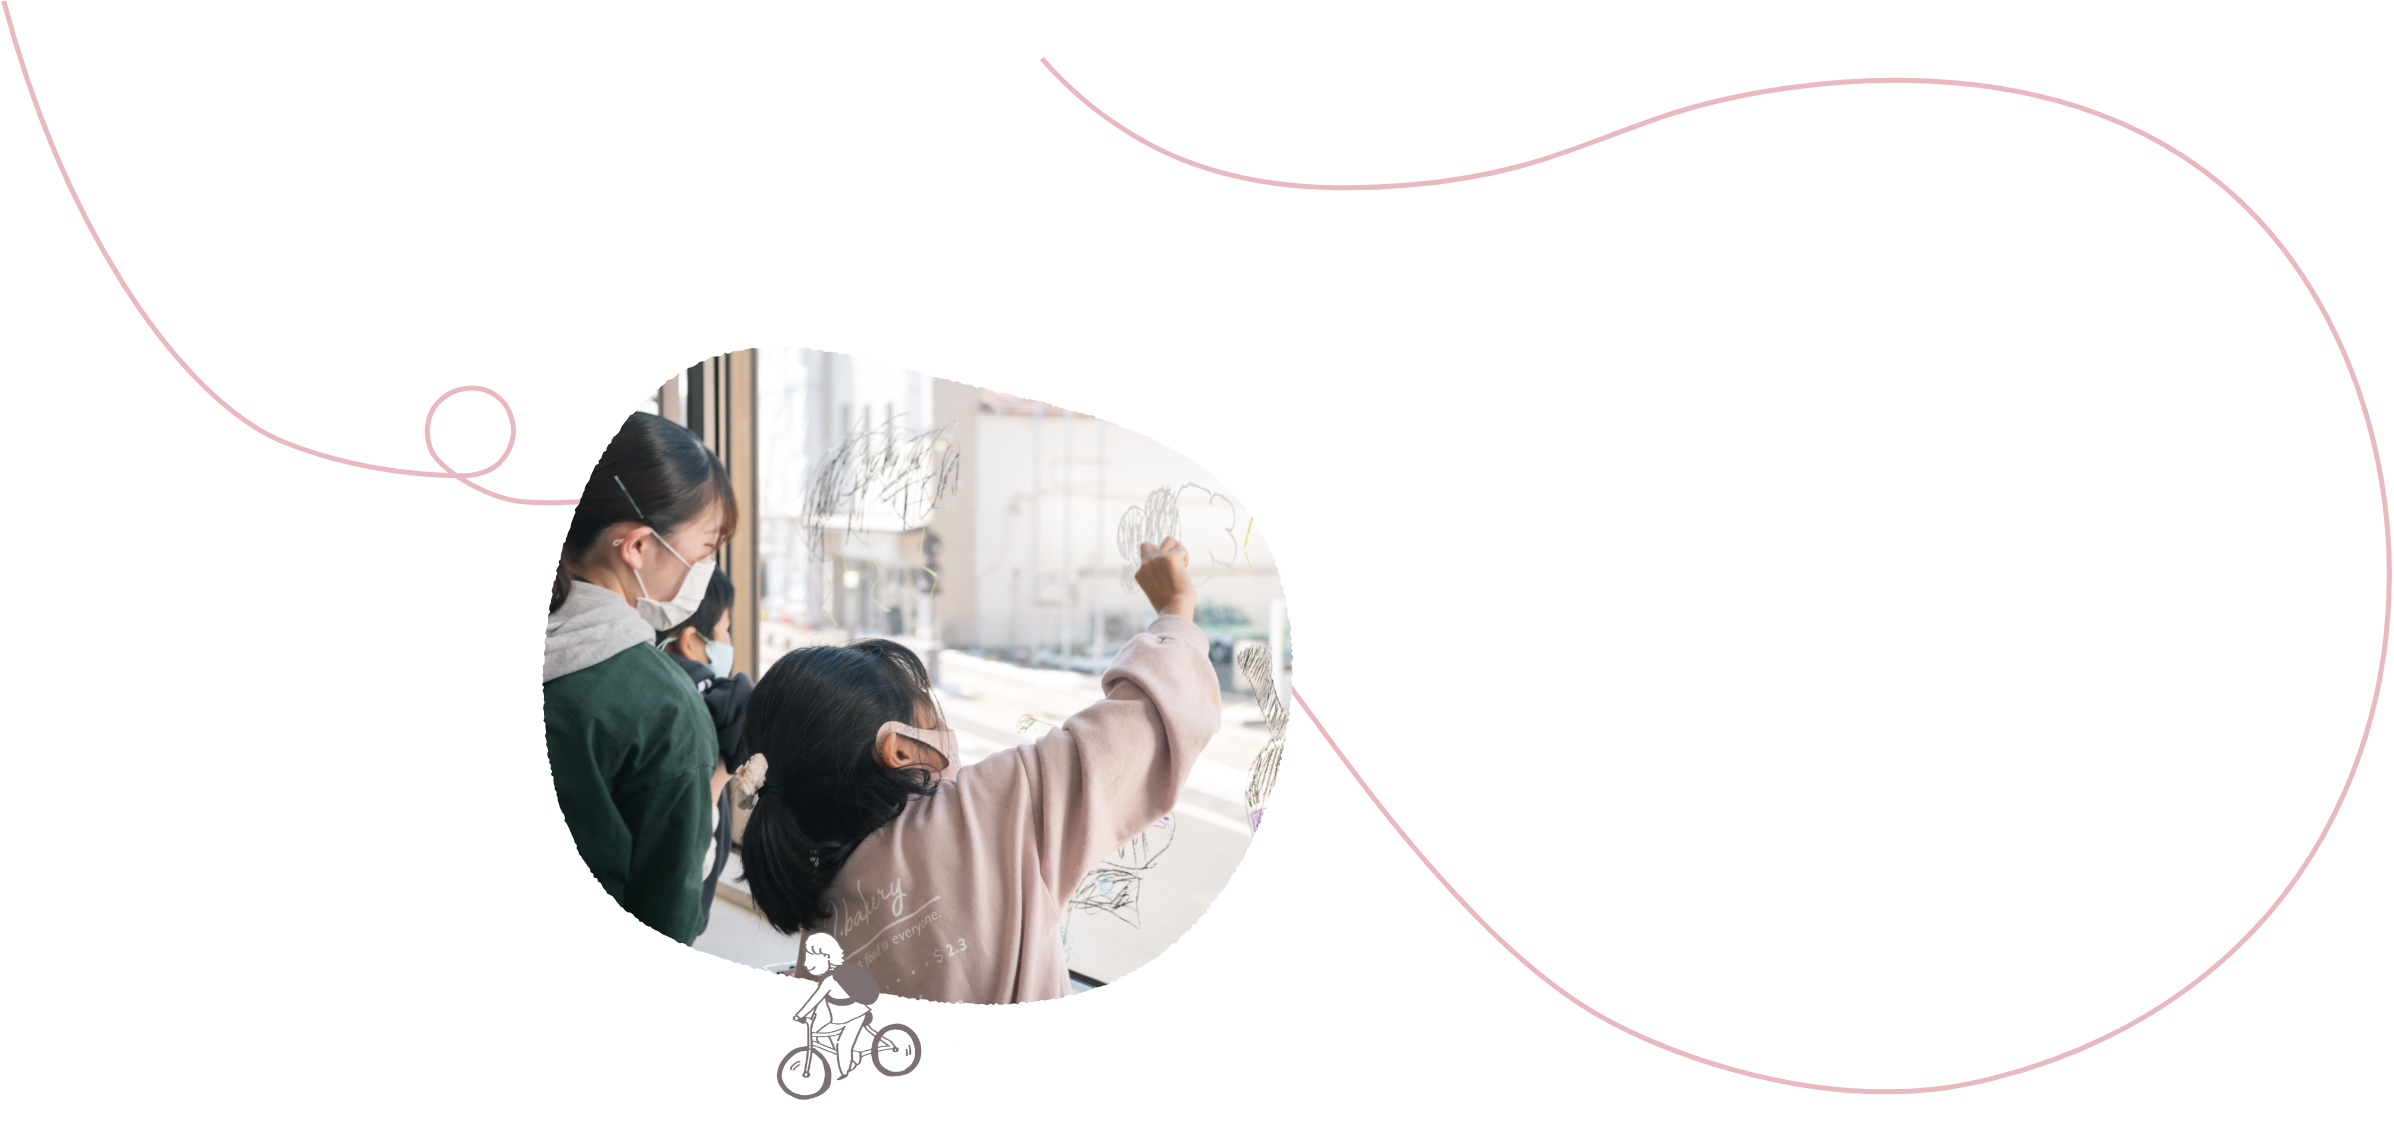
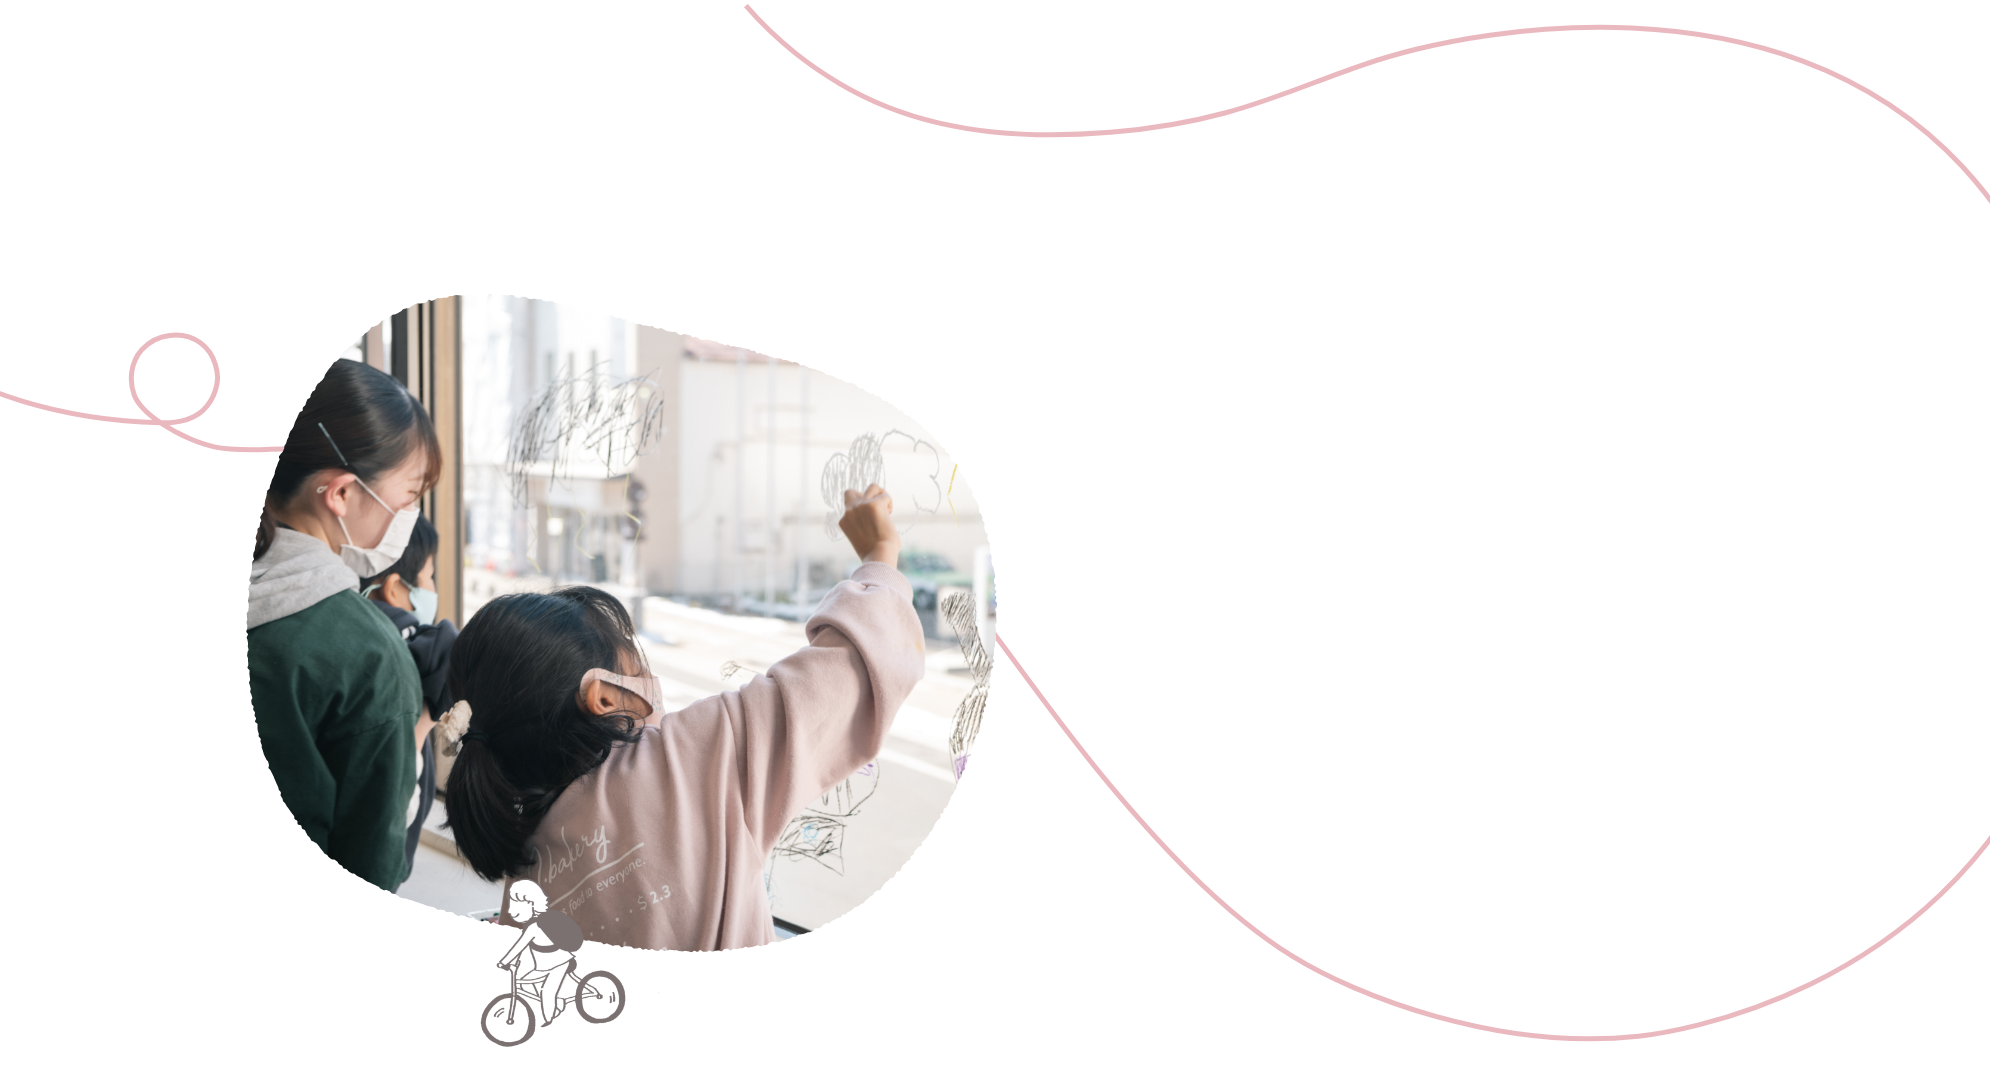
一旦コミット

diff --git a/index.html b/index.html
@@ -73,8 +73,6 @@
             <li><a href="">お問い合わせ</a></li>
           </ul>
         </div>
-        
-        <p>スクロール</p>
       </div>
       <div class="about">
         <img src="/images/top/top_about_img1.png" alt="子供達の画像">
@@ -94,8 +92,8 @@
       </div>
       <div class="link">
         <img src="/images/top/michisirube_logo.png" alt="みちしるべロゴ画像">
-        <p class="">未来ビジョン「みちしるべ」</p>
-        <p class="">「未来ビジョン みちしるべ」は、まちづくりにおいて住民・行政・就業者・関係団体等の<br>
+        <p class="title">未来ビジョン「みちしるべ」</p>
+        <p class="text">「未来ビジョン みちしるべ」は、まちづくりにおいて住民・行政・就業者・関係団体等の<br>
           各人材が共有の将来イメージを掲げ一体となって活動するための行動指針のことです。</p>
         <div class="btn_wrap">
           <p>詳しくはこちら</p>
@@ -106,50 +104,53 @@
         </div>
       </div>
       <div class="news">
-        <div class="title_wrap">
-          <p>新着情報<span>NEWS</span></p>
-          <a href="">詳しく見る</a>
+        <div class="inner">
+          <div class="title_wrap">
+            <p>新着情報<span>NEWS</span></p>
+            <a href="">詳しく見る</a>
+          </div>
+          <div class="newsitem">
+            <ul>
+              <li>
+                <a href="">
+                  <img src="/images/top/news_img.png" alt="ニュースの画像">
+                  <div class="text_wrap">
+                    <p class="deta">2024.06.02<span>お知らせ</span></p>
+                    <p class="title">タイトルが入ります。タイトルが入ります。タイトルが入ります。タイトルが入ります。タイトルが入ります。タイトルが入ります。</p>
+                  </div>
+                </a>
+              </li>
+              <li>
+                <a href="">
+                  <img src="/images/top/news_img.png" alt="ニュースの画像">
+                  <div class="text_wrap">
+                    <p class="deta">2024.06.02<span>お知らせ</span></p>
+                    <p class="title">タイトルが入ります。タイトルが入ります。タイトルが入ります。タイトルが入ります。タイトルが入ります。タイトルが入ります。</p>
+                  </div>
+                </a>
+              </li>
+              <li>
+                <a href="">
+                  <img src="/images/top/news_img.png" alt="ニュースの画像">
+                  <div class="text_wrap">
+                    <p class="deta">2024.06.02<span>お知らせ</span></p>
+                    <p class="title">タイトルが入ります。タイトルが入ります。タイトルが入ります。タイトルが入ります。タイトルが入ります。タイトルが入ります。</p>
+                  </div>
+                </a>
+              </li>
+              <li>
+                <a href="">
+                  <img src="/images/top/news_img.png" alt="ニュースの画像">
+                  <div class="text_wrap">
+                    <p class="deta">2024.06.02<span>お知らせ</span></p>
+                    <p class="title">タイトルが入ります。タイトルが入ります。タイトルが入ります。タイトルが入ります。タイトルが入ります。タイトルが入ります。</p>
+                  </div>
+                </a>
+              </li>
+            </ul>
+          </div>
         </div>
-        <div class="newsitem">
-          <ul>
-            <li>
-              <a href="">
-                <img src="/images/top/news_img.png" alt="ニュースの画像">
-                <div class="text_wrap">
-                  <p class="deta">2024.06.02<span>お知らせ</span></p>
-                  <p class="title">タイトルが入ります。タイトルが入ります。タイトルが入ります。タイトルが入ります。タイトルが入ります。タイトルが入ります。</p>
-                </div>
-              </a>
-            </li>
-            <li>
-              <a href="">
-                <img src="/images/top/news_img.png" alt="ニュースの画像">
-                <div class="text_wrap">
-                  <p class="deta">2024.06.02<span>お知らせ</span></p>
-                  <p class="title">タイトルが入ります。タイトルが入ります。タイトルが入ります。タイトルが入ります。タイトルが入ります。タイトルが入ります。</p>
-                </div>
-              </a>
-            </li>
-            <li>
-              <a href="">
-                <img src="/images/top/news_img.png" alt="ニュースの画像">
-                <div class="text_wrap">
-                  <p class="deta">2024.06.02<span>お知らせ</span></p>
-                  <p class="title">タイトルが入ります。タイトルが入ります。タイトルが入ります。タイトルが入ります。タイトルが入ります。タイトルが入ります。</p>
-                </div>
-              </a>
-            </li>
-            <li>
-              <a href="">
-                <img src="/images/top/news_img.png" alt="ニュースの画像">
-                <div class="text_wrap">
-                  <p class="deta">2024.06.02<span>お知らせ</span></p>
-                  <p class="title">タイトルが入ります。タイトルが入ります。タイトルが入ります。タイトルが入ります。タイトルが入ります。タイトルが入ります。</p>
-                </div>
-              </a>
-            </li>
-          </ul>
-        </div>
+        
       </div>
       <footer>
         <div class="inner">

diff --git a/css/style.css b/css/style.css
@@ -239,26 +239,6 @@ header {
   }
 }
 
-/* アニメーション */
-@keyframes scroll {
-  0% {
-    transform: scale(1, 0);
-    transform-origin: 0 0;
-  }
-  50% {
-    transform: scale(1, 1);
-    transform-origin: 0 0;
-  }
-  51% {
-    transform: scale(1, 1);
-    transform-origin: 0 100%;
-  }
-  100% {
-    transform: scale(1, 0);
-    transform-origin: 0 100%;
-  }
-}
-
 /*---------------------------------
 
   topページ
@@ -269,13 +249,18 @@ header {
   .mv {
     padding-top: 140px;
     position: relative;
-    img {
-      margin-left: 10%;
+    z-index: 3;
+    > img {
+      margin-left: 11.4%;
     }
     .list {
       position: absolute;
       left: 10%;
-      top : 10%;
+      top : 130px;
+      > img {
+        width: 80%;
+        margin: 0 auto 5rem;
+      }
       ul {
         li {
           a {
@@ -295,8 +280,183 @@ header {
           }
         }
       }
-
     }
-    
+  }
+  .about {
+    margin-top: -10%;
+    position: relative;
+    > img {
+      &:nth-child(2) {
+        margin-top: -10%;
+      }
+    }
+    .text_wrap {
+      position: absolute;
+      top: 13%;
+      right: 12%;
+      width: min(30%, 500px);
+      .title {
+        font-size: min(2vw, 4.5rem);
+        font-weight: 600;
+        margin-bottom: 5rem;
+        text-decoration-line: underline;
+        text-decoration-thickness: 6px;
+        text-underline-offset: 16px;
+      }
+      .text {
+        font-family: "Noto Sans JP", sans-serif;
+        font-optical-sizing: auto;
+        font-size: min(1vw, 1.6rem);
+        line-height: 2.5;
+      }
+    }
+    .loop_text {
+      color: #E6DCC9;
+      position: absolute;
+      bottom: 0;
+      font-size: 12vw;
+      white-space: nowrap;
+      font-weight: 900;
+      overflow: hidden;
+      animation: animetxt 20s linear infinite;
+      transform: translateX(100%);
+
+      
+    }
+  }
+  .link {
+    background-image: url(../images/top/top_bg.png);
+    background-repeat: no-repeat;
+    background-size: 100%;
+    padding: 34rem 0;
+    > img {
+      width: min(400px, 30%);
+      margin: 0 auto 2rem;
+    }
+    > p {
+      text-align: center;
+      &.title {
+        margin-bottom: 4rem;
+        font-size: 3.4rem;
+        font-weight: 600;
+      }
+      &.text {
+        font-size: 1.6rem;
+        font-family: "Noto Sans JP", sans-serif;
+        font-optical-sizing: auto;
+        margin-bottom: 7rem;
+      }
+    }
+    .btn_wrap {
+      > p  {
+        text-align: center;
+        margin-bottom: 3.5rem;
+        font-size: 3rem;
+        font-weight: 600;
+      }
+      .btns {
+        display: flex;
+        justify-content: center;
+        a {
+          width: 390px;
+          height: 110px;
+          margin: 0 50px;
+          padding: 0 50px;
+          background-color: var(--btn-color);
+          border-radius: 55px;
+          display: flex;
+          align-items: center;
+          justify-content: space-between;
+          font-size: 2.2rem;
+          font-weight: 600;
+          span {
+            font-size: 1.8rem;
+            margin: 0 auto 0 0;
+          }
+          &::after {
+            content: " ";
+            background-image: url(../images/common/btn_arrow.svg);
+            width: 32px;
+            height: 32px;
+            background-repeat: no-repeat;
+            background-size: contain;
+          }
+        }
+      }
+    }
+  }
+  .news {
+    background-image: url(../images/top/news_bg.png);
+    background-repeat: no-repeat;
+    background-size: 180%;
+    background-position: center top;
+    background-position: center;
+    width: 100%;
+    .inner {
+      display: flex;
+      margin: 0 auto;
+      width: min(80%, 1200px);
+      padding: 20rem 0 14rem;
+    }
+    .title_wrap {
+      width: 240px;
+      margin-right: 64px;
+      p {
+        font-size: 4.5rem;
+        font-weight: 600;
+        writing-mode: vertical-rl;
+        letter-spacing: .26em;
+        span {
+          font-size: 3.4rem;
+          display: block;
+          letter-spacing: .06em;
+        }
+      }
+    }
+    .newsitem {
+      width: calc(100% - (240px + 64px));
+      ul {
+        display: flex;
+        justify-content: space-between;
+        flex-wrap: wrap;
+        li {
+          width: 48%;
+        }
+      }
+    }
   }
 }
+
+
+/*---------------------------------
+
+  アニメーション
+
+---------------------------------*/
+
+/* スクロール */
+@keyframes scroll {
+  0% {
+    transform: scale(1, 0);
+    transform-origin: 0 0;
+  }
+  50% {
+    transform: scale(1, 1);
+    transform-origin: 0 0;
+  }
+  51% {
+    transform: scale(1, 1);
+    transform-origin: 0 100%;
+  }
+  100% {
+    transform: scale(1, 0);
+    transform-origin: 0 100%;
+  }
+}
+
+/* 左から右に流れるテキスト */
+@keyframes animetxt {
+  100% {
+    transform: translateX(-100%);
+    }
+  }
